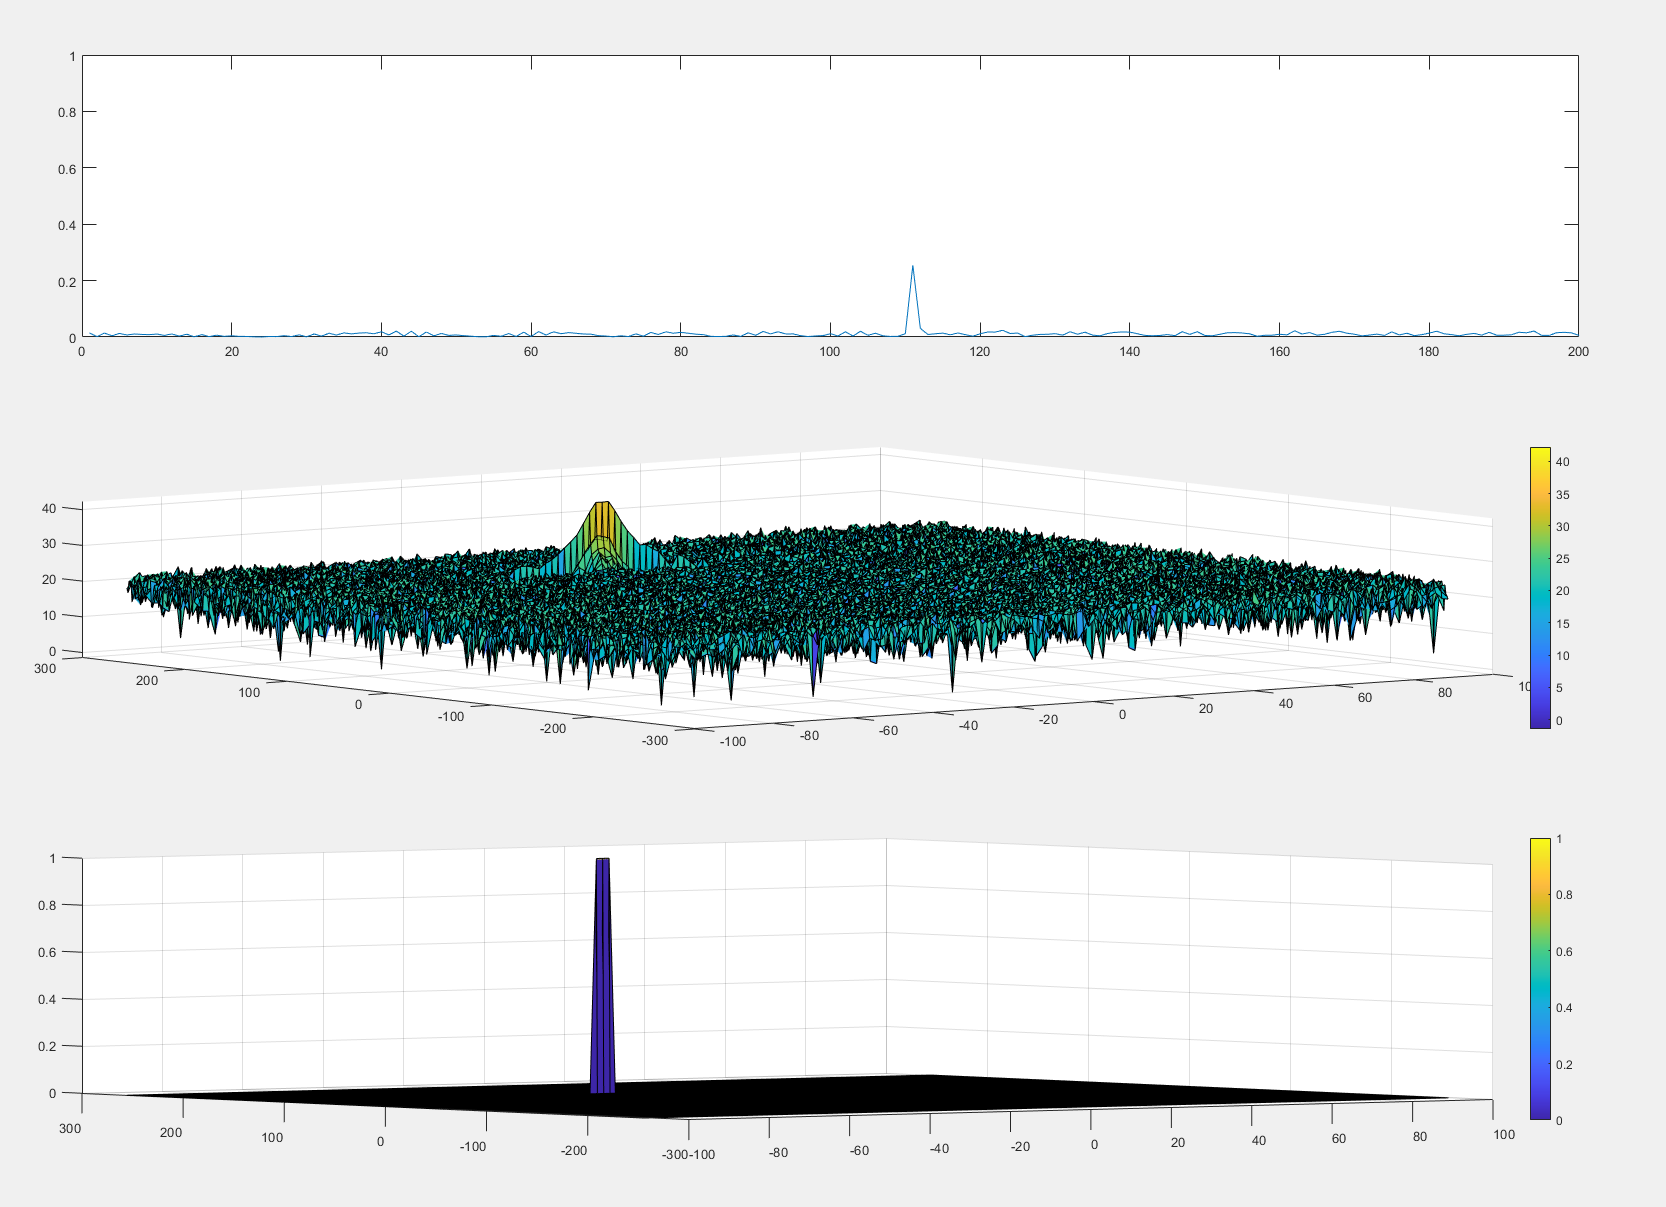
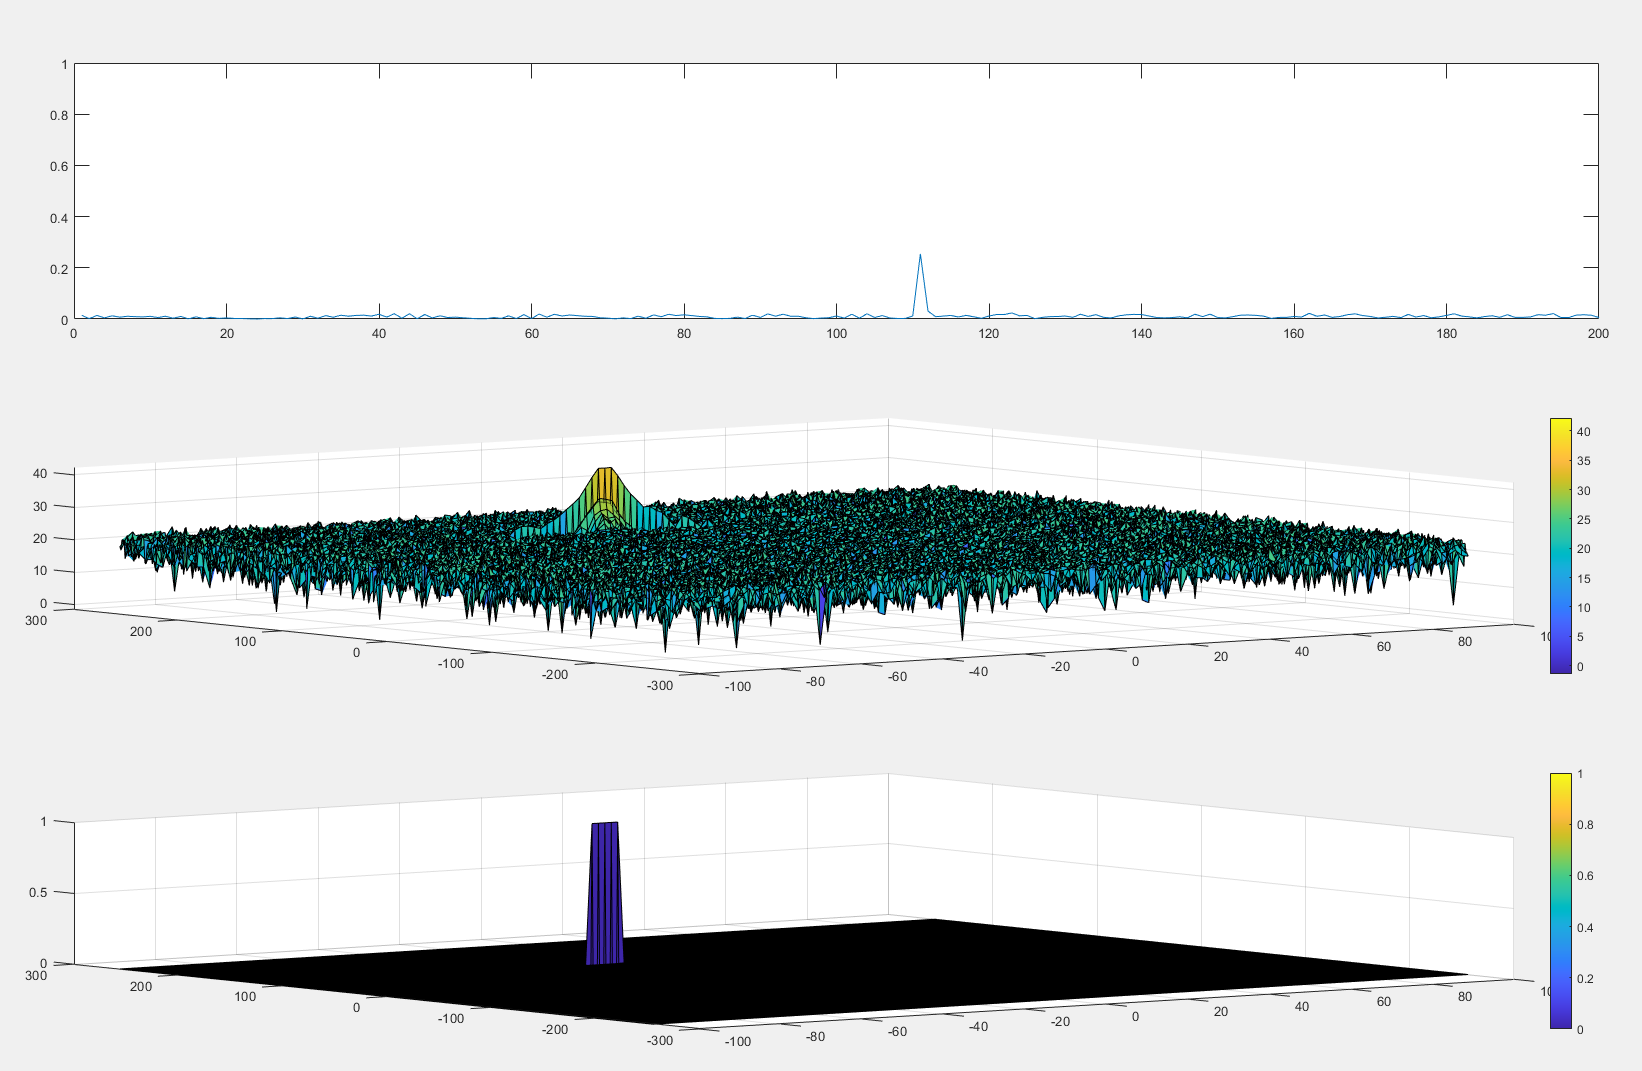
params tweaks

diff --git a/radar_target_generation_and_detection.m b/radar_target_generation_and_detection.m
@@ -148,18 +148,18 @@ colorbar;
 
 % *%TODO* :
 %Select the number of training Cells in both the dimensions.
-Tcr = 6;
+Tcr = 8;
 Tcd = 2;
 
 % *%TODO* :
 %Select the number of Guard Cells in both dimensions around the Cell under 
 %test (CUT) for accurate estimation
-Gcr = 3;
+Gcr = 4;
 Gcd = 1;
 
 % *%TODO* :
 % offset the threshold by SNR value in dB
-offset = 10;
+offset = 8;
 
 % *%TODO* :
 %Create a vector to store noise_level for each iteration on training cells
@@ -191,7 +191,7 @@ for i = Tcr + Gcr + 1 : Nr/2 - Tcr - Gcr
     for j = Tcd + Gcd + 1 : Nd - Tcd - Gcd
       train = db2pow(RDM(i - Tcr - Gcr : i + Tcr + Gcr, j - Tcd - Gcd : j + Tcd + Gcd));
       train(i - Gcr : i + Gcr, j - Gcd : j + Gcd) = 0;
-      thresh = pow2db(sum(train, 'all') / n_training) + offset;
+      thresh = pow2db(sum(train, 'all') / n_training * offset);
       if RDM(i,j) > thresh
         filtered_sig(i, j) = 1;
       end
